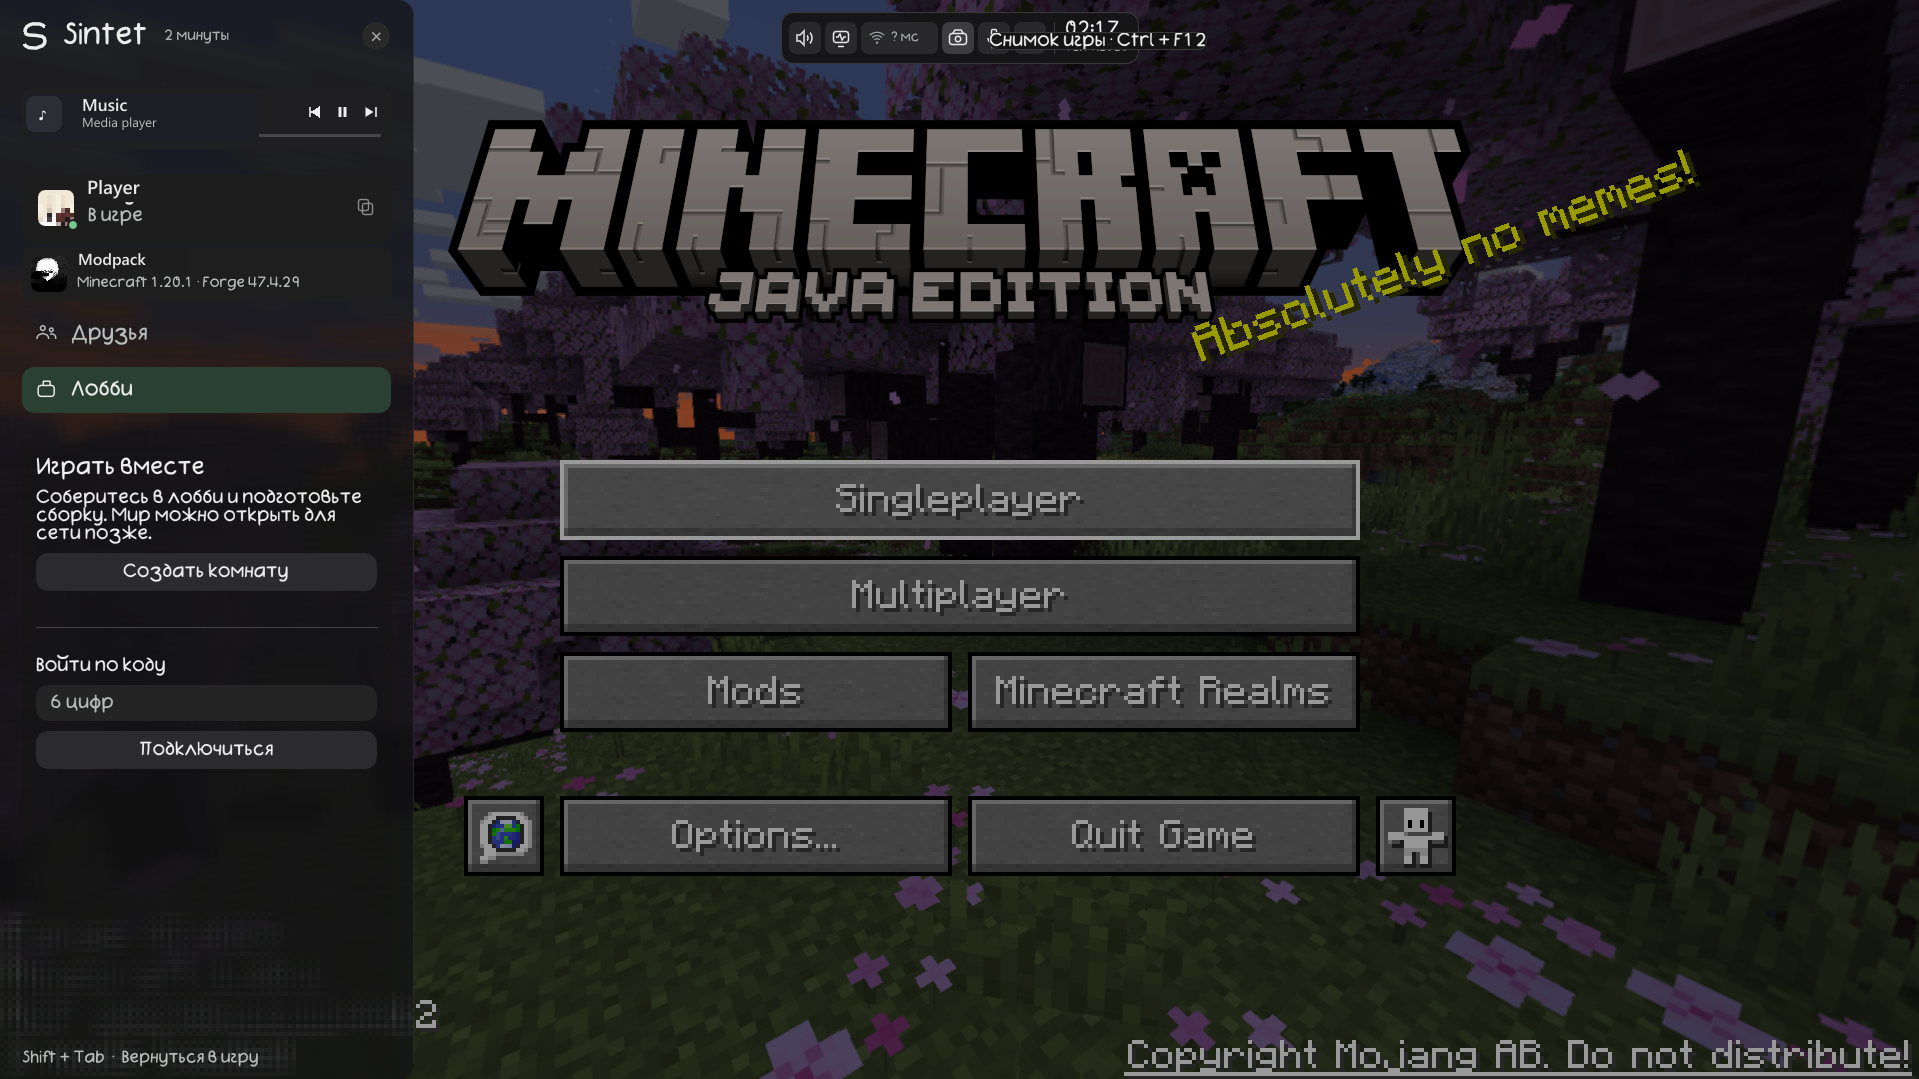
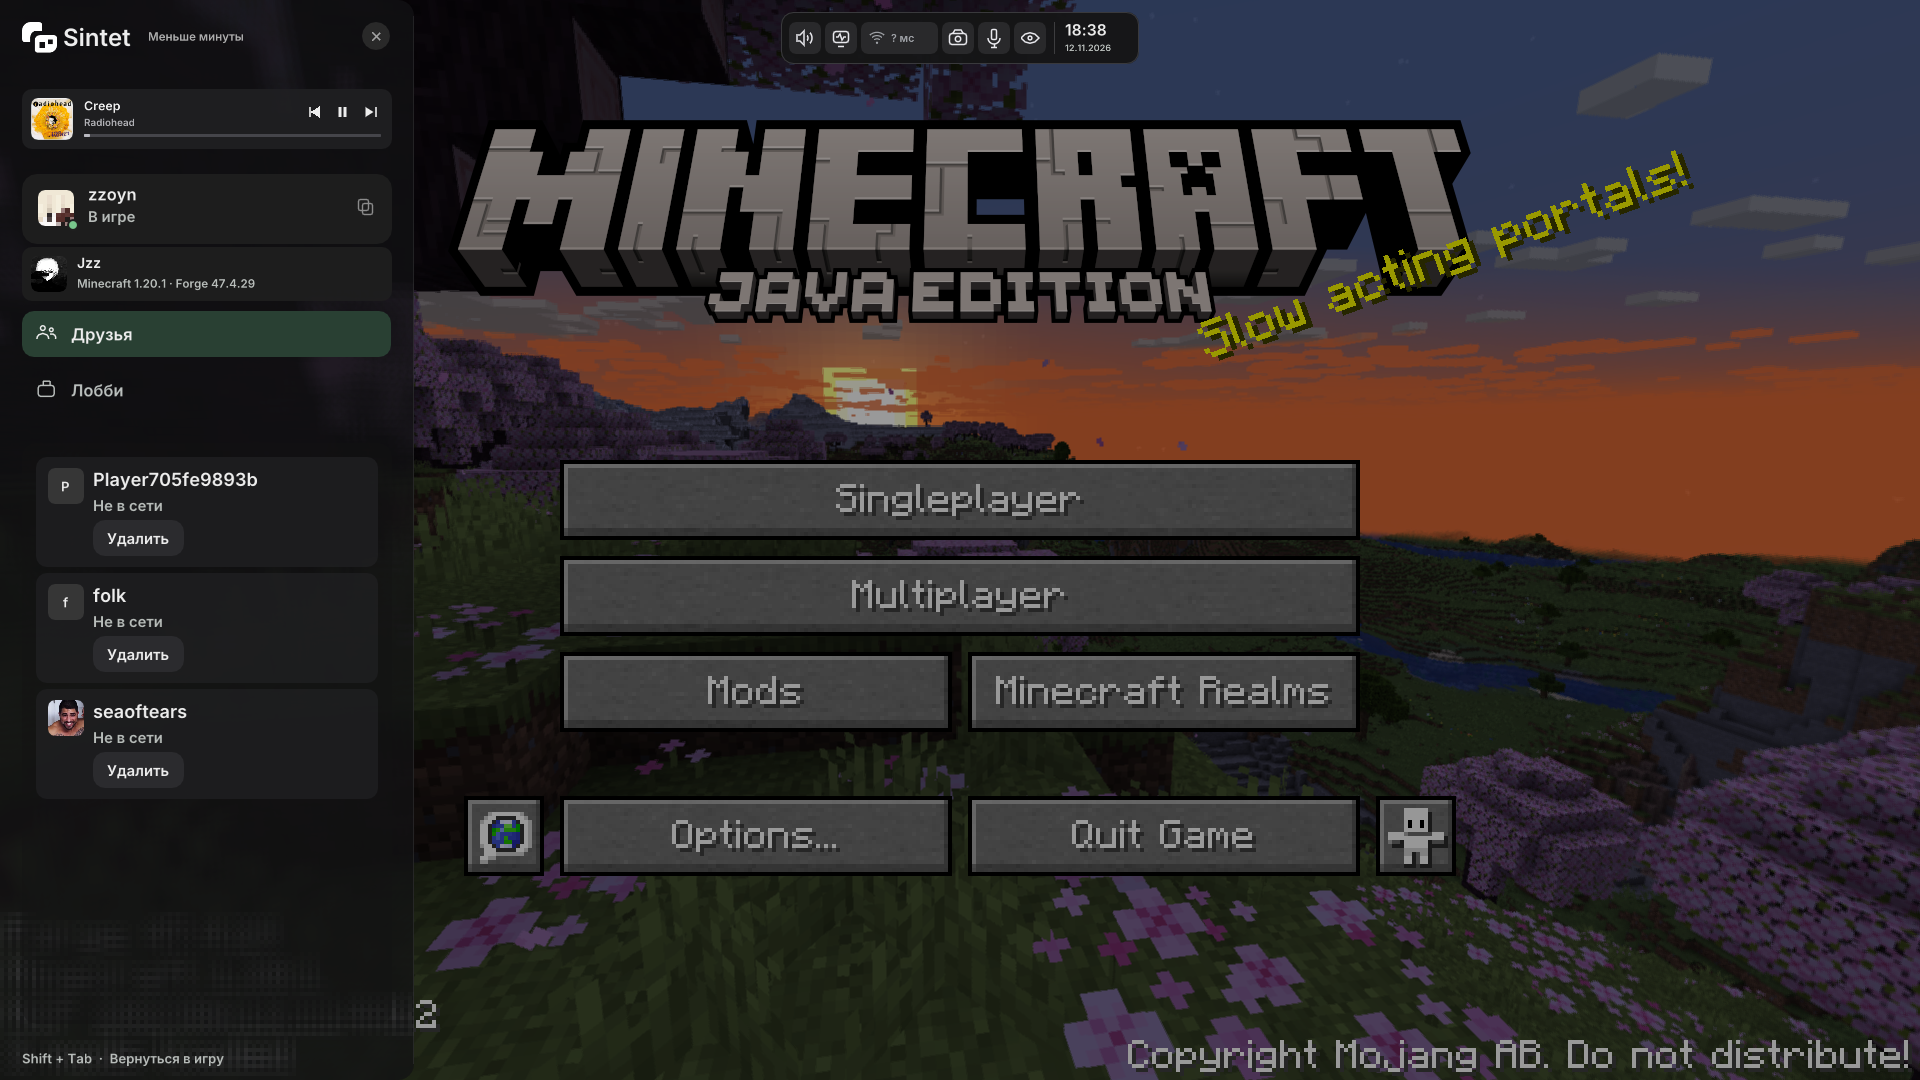
Refresh Sintet launcher screenshots

diff --git a/README.md b/README.md
@@ -30,27 +30,29 @@
 
 ## Лобби, друзья и оверлей
 
+![Лобби на стандартной теме](docs/screenshots/lobby.png)
+
 ![Rich Presence и список друзей](docs/screenshots/rich-presence.png)
 
-![Оверлей Sintet в Minecraft с лобби и медиаплеером](docs/screenshots/in-game-overlay.png)
+![Оверлей Sintet в Minecraft со списком друзей и медиаплеером](docs/screenshots/in-game-overlay.png)
 
-## Кастомное оформление
+## Мастерская и редактор оформления
 
 <p align="center">
-  <img src="docs/screenshots/custom-workshop.png" alt="Мастерская с пользовательским фоном и шрифтом" width="49%">
-  <img src="docs/screenshots/custom-lobby.png" alt="Лобби с тем же пользовательским оформлением" width="49%">
+  <img src="docs/screenshots/workshop.png" alt="Каталог модов и фильтры на стандартной теме" width="49%">
+  <img src="docs/screenshots/appearance.png" alt="Настройки панелей на стандартной теме" width="49%">
 </p>
 
-<details>
-<summary>Ещё скриншоты</summary>
+## Тема «санчез»
 
-![Выбор источника установки в мастерской](docs/screenshots/workshop.png)
+<p align="center">
+  <img src="docs/screenshots/custom-home.png" alt="Главный экран с красной фоновой волной" width="49%">
+  <img src="docs/screenshots/custom-lobby.png" alt="Лобби в теме «санчез»" width="49%">
+  <img src="docs/screenshots/custom-workshop.png" alt="Каталог модов в теме «санчез»" width="49%">
+  <img src="docs/screenshots/custom-appearance.png" alt="Настройки волны в теме «санчез»" width="49%">
+</p>
 
-![Настройки фильтров фона](docs/screenshots/appearance.png)
-
-Скриншоты в этом блоке сняты с интерфейса лаунчера на демонстрационных данных.
-
-</details>
+Снимки лаунчера сделаны на демонстрационных данных.
 
 ## Предупреждение Windows SmartScreen
 
